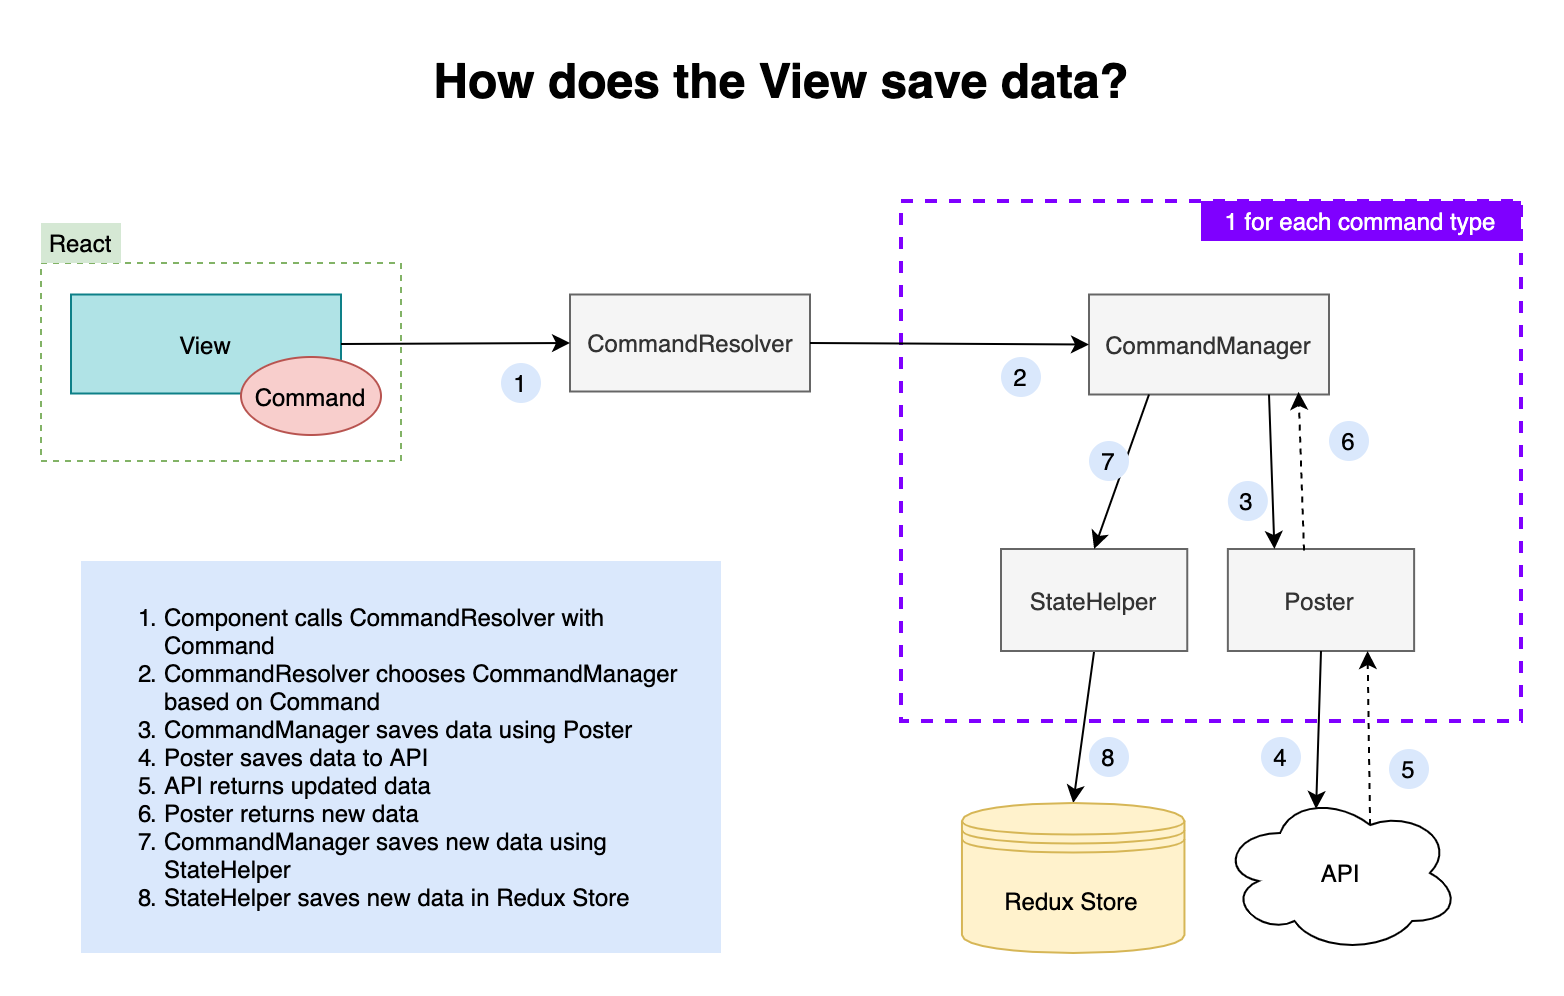
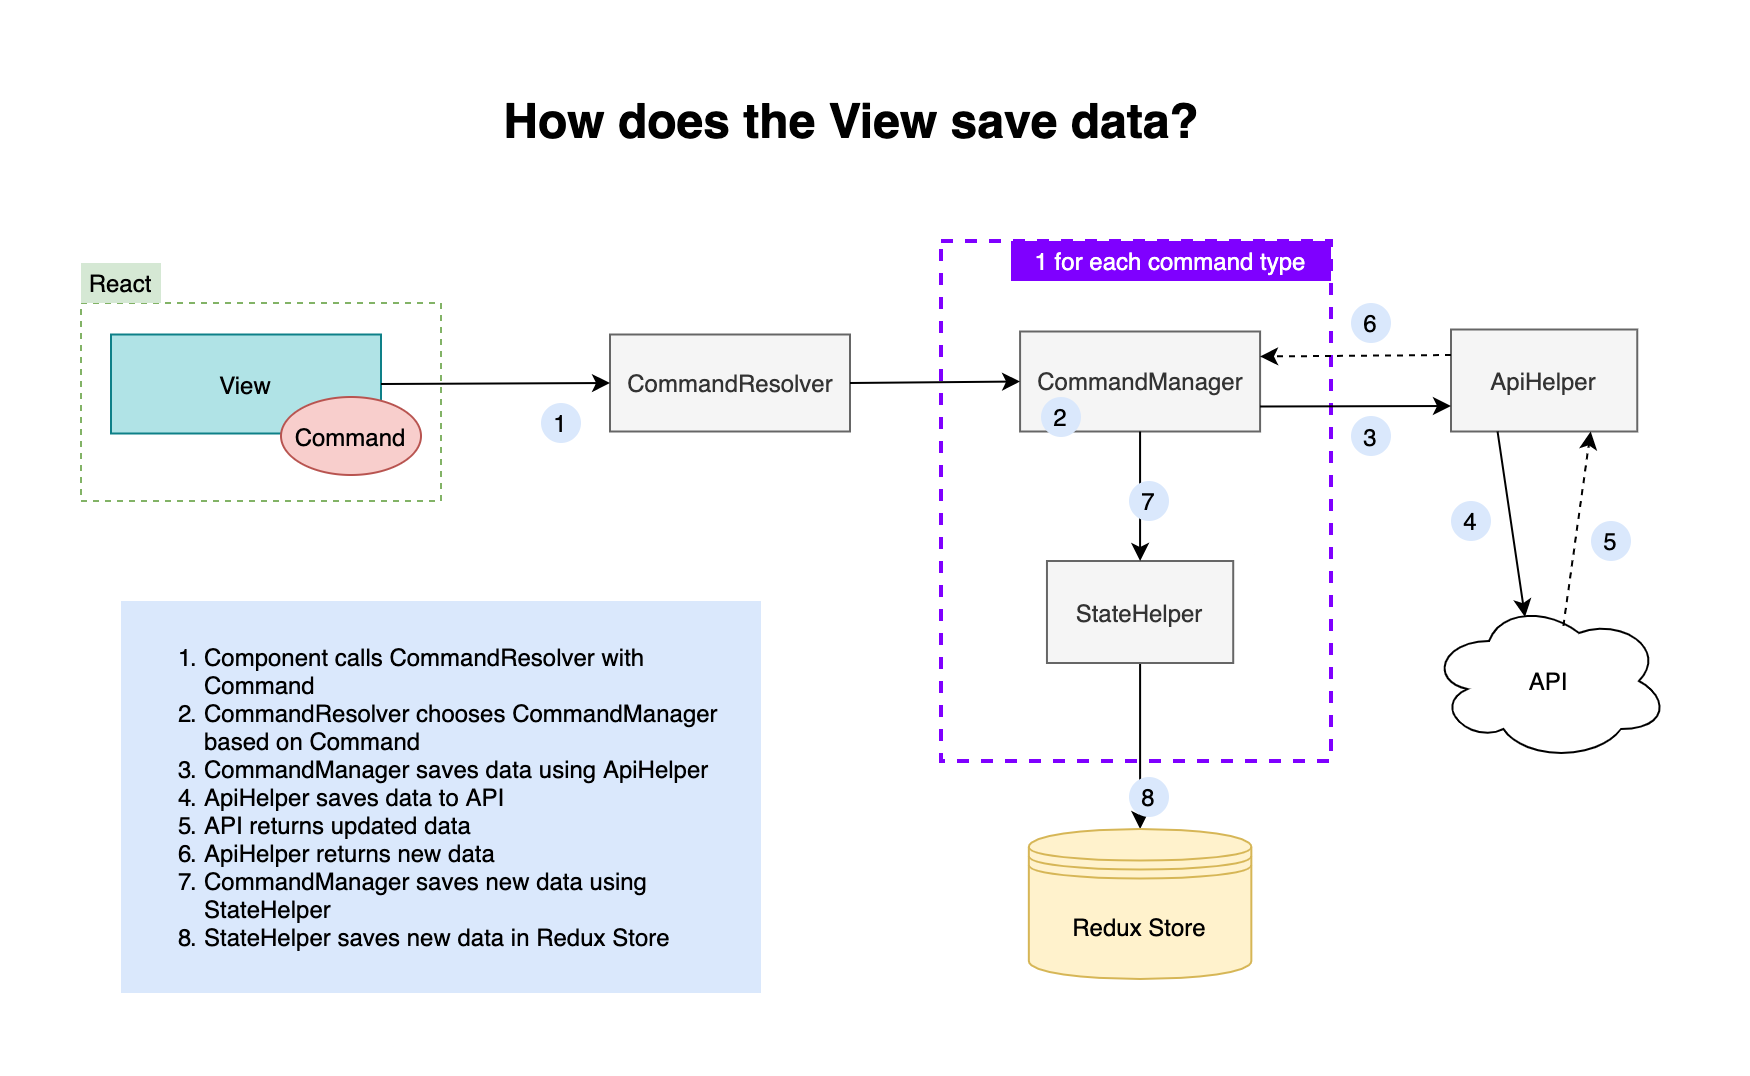
Update design docs

diff --git a/docs/design/domain.md b/docs/design/domain.md
@@ -23,10 +23,10 @@ Each entity has a Redux state slice where it is stored.
 
 Each entity has either a Query, a Command or both.
 
-- A `Query` needs a `QueryManager` which needs a `StateHelper` and a `Fetcher`
-- A `Command` needs a `CommandManager` which needs a `StateHelper` and a `Poster`
+- A `Query` needs a `QueryManager` which needs a `StateHelper` and the `ApiHelper`
+- A `Command` needs a `CommandManager` which needs a `StateHelper` and the `ApiHelper`
 
-All of these classes are entity specific.
+All of these classes are entity specific except for the ApiHelper.
 
 ## StateHelper
 
@@ -37,17 +37,14 @@ It's an adapter around the redux store for 1 specific entity.
 ## QueryManager
 
 The `QueryManager` is reponsible for handling the query and its related data.  
-It uses the `StateHelper` and `Fetcher` to update data.
+It uses the `StateHelper` and `ApiHelper` to update data.
 
 ## CommandManager
 
 The `CommandManager` is reponsible for handling the command and its related data.  
-It uses the `StateHelper` and `Poster` to save and update data.
+It uses the `StateHelper` and `ApiHelper` to save and update data.
 
-## Fetcher
+## ApiHelper
 
-The `Fetcher` is responsible for getting data from the API.
-
-## Poster
-
-The `Poster` is responsible for posting data to the API.
+The `ApiHelper` is responsible for interaction with the API. It has 1 implementation for all entities.  
+This is the class doing actual fetch calls. This is the class that is being mocked during testing.

diff --git a/docs/design/folder-structure.md b/docs/design/folder-structure.md
@@ -10,8 +10,10 @@ The agreement is to roughly follow the building blocks in the folder structure.
 ```
 src/
   Core/
+    Query/ - All Query definitions
+    Command/ - All Command definitions
     Contracts/ - All interfaces that represent a contract
-    Domain/ - Domain entities, Query/Command interfaces
+    Domain/ - Entities
     Language/ - Language extensions & isolated implementations
   Data/ - All classes related to the Data Layer
     API/ - Classes for communicating with the REST API (based on Fetch API)
